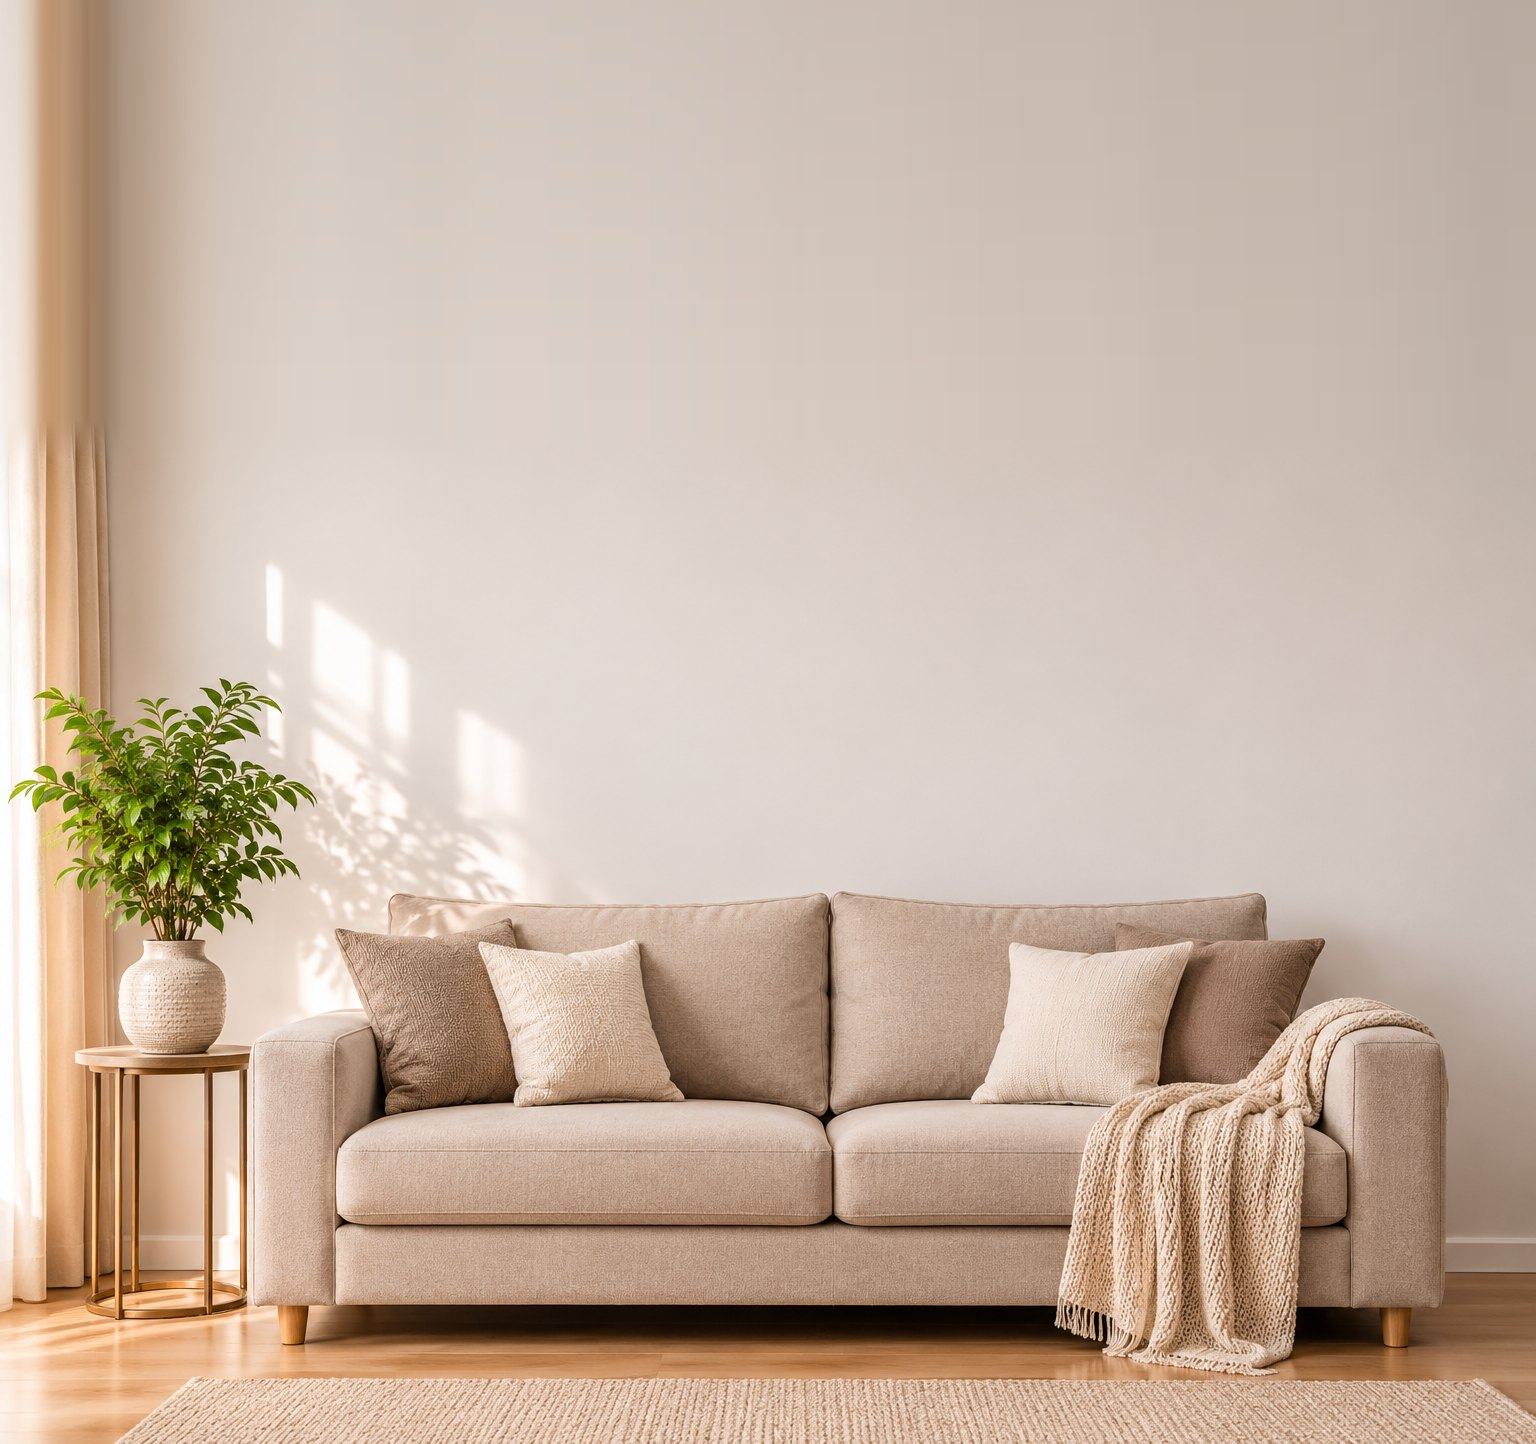
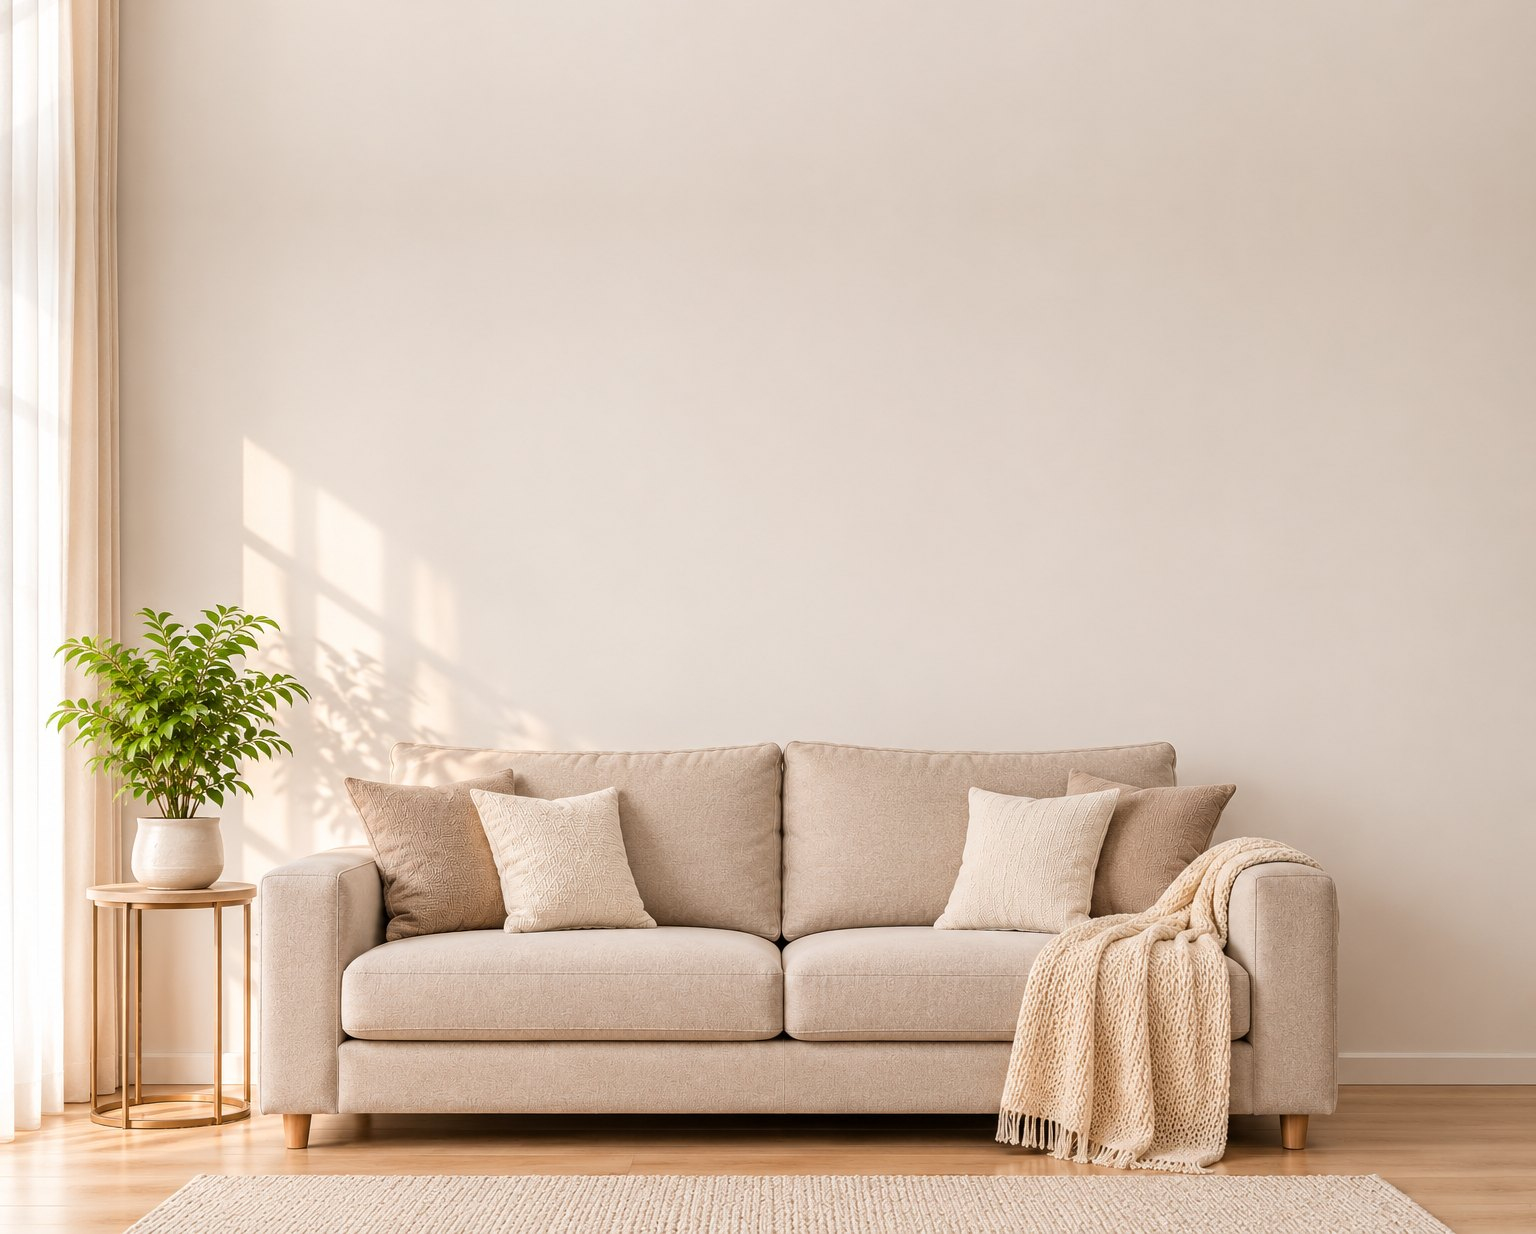
v2: switch wall view to the taller room photo
Claude-Session: https://claude.ai/code/session_01JdwJtaBS7nxJ2qdfPaxz57

diff --git a/v2/index.html b/v2/index.html
@@ -133,7 +133,7 @@
 
   /* "on the wall": real-scale mock room, 400 cm of wall across the frame */
   .room{position:absolute;inset:0;overflow:hidden}
-  .view.wide{aspect-ratio:1536/1444}
+  .view.wide{aspect-ratio:1536/1234}
   .room .bg{position:absolute;inset:0;width:100%;height:100%;object-fit:cover}
   .room .art{position:absolute;transform:translateX(-50%);box-shadow:2px 10px 18px rgba(60,40,30,.35),0 2px 4px rgba(60,40,30,.25);object-fit:cover}
   .room .art.round{border-radius:50%}
@@ -339,9 +339,10 @@ function dims(w){
   const r=w.size.match(/Ø\s*(\d+)/); if(r) return {h:+r[1],w:+r[1],round:true};
   return {h:60,w:60};
 }
-// Real room photo (img/room-wall.jpg, 1536 × 1444 px). The sofa is 1195 px wide = 220 cm,
-// its back top sits at y = 896 px, its centre at x = 850 px. Paintings hang 18 cm above the back.
-const ROOM={w:1536,h:1444,pxPerCm:1195/220,cx:850,backTop:896,gap:18};
+// Real room photo (img/room-wall.jpg, 1536 × 1234 px; the top 210 px is the wall mirrored upward).
+// The sofa is 1074 px wide = 220 cm, its back top sits at y = 746 px, its centre at x = 799 px.
+// Paintings hang 18 cm above the back.
+const ROOM={w:1536,h:1234,pxPerCm:1074/220,cx:799,backTop:746,gap:18};
 function roomView(w){
   const d=dims(w), k=ROOM.pxPerCm;
   const bottomPx=ROOM.h-ROOM.backTop+ROOM.gap*k;
